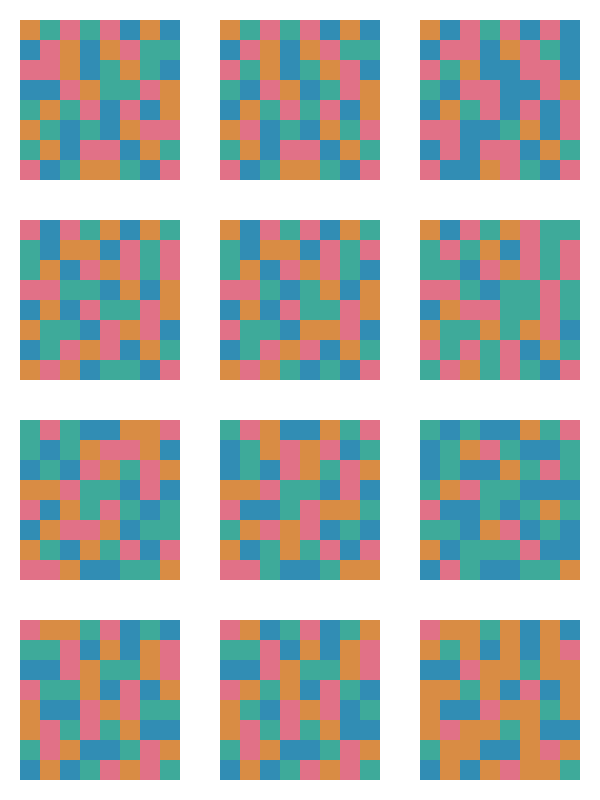
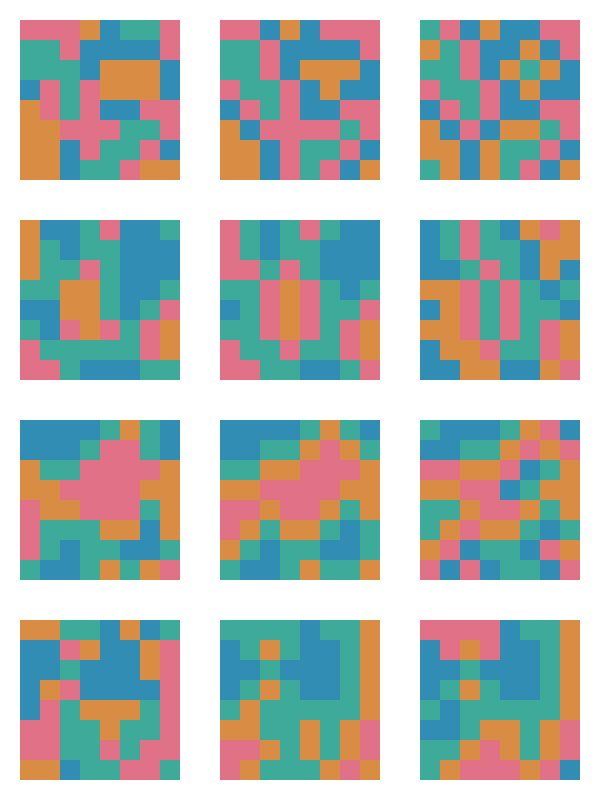
Added correlation

diff --git a/samples/squares.cpp b/samples/squares.cpp
@@ -11,8 +11,8 @@ namespace
 
 	//char const* DATABASE_SOURCE("aleatoire.xml");
 	//char const* DATABASE_SOURCE("arbitraire.xml");
-	//char const* DATABASE_SOURCE("correlation.xml");
-	char const* DATABASE_SOURCE("determination.xml");
+	char const* DATABASE_SOURCE("correlation.xml");
+	//char const* DATABASE_SOURCE("determination.xml");
 	//char const* DATABASE_SOURCE("squares.xml");
 
 	GLsizei const VertexCount(4);
